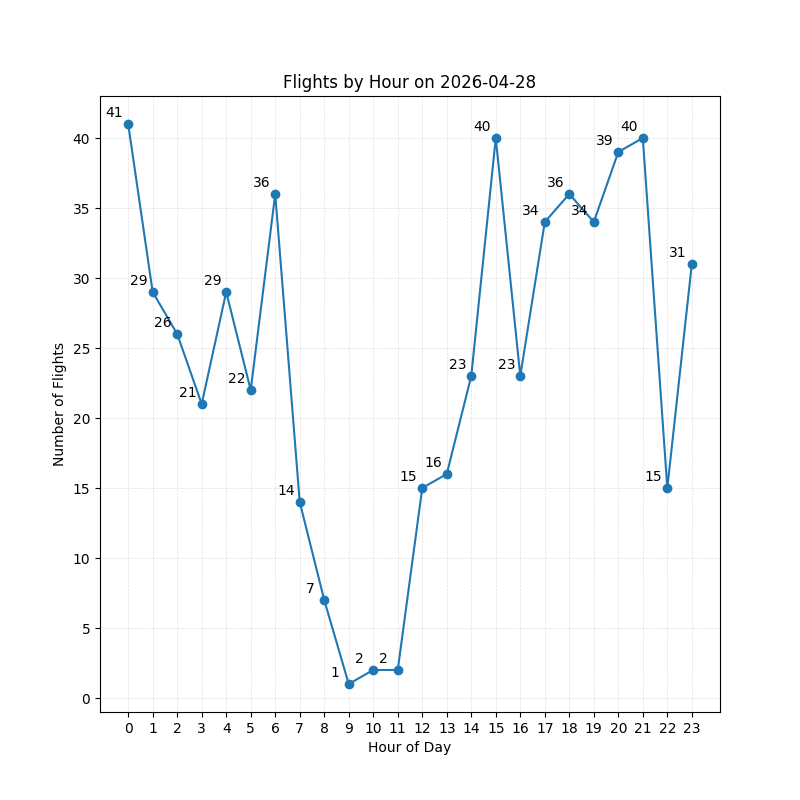
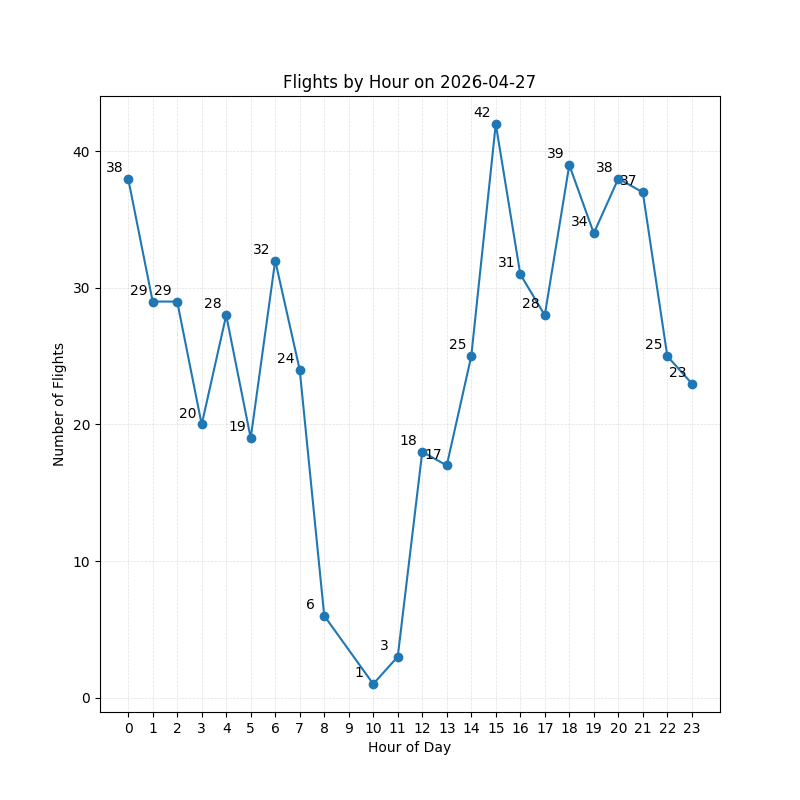
update homepage and readme

diff --git a/templates/home_page.html b/templates/home_page.html
@@ -23,10 +23,13 @@
                 </li>
             </ul>
         </nav>
+
+        <img src="static/sfo.png" alt="sfo img" class="sfo-img"/>
+
         <div class="home-container">
             <div class="home">
-                <h1>SFO Departure Analytics</h1>
-                <p>SFO Departure Analytics is a web-based project that analyzes flight departure data from the San Francisco International Airport. Users can explore daily departure trends from the past 7 days, view the number of flights departing on selected dates, and identify the busiest and least active travel periods throughout the past week. Built with Python, Flask, Pandas, and Matplotlib, this project transforms raw aviation data into clear and simple visualizations and insights.</p>
+                <h1>SFO Flight Analytics</h1>
+                <p>SFO Flight Analytics is a web-based project that analyzes flight departure data from the San Francisco International Airport. Users can explore daily departure trends from the past 7 days, view the number of flights departing on selected dates, and identify the busiest and least active travel periods throughout the past week. Built with Python, Flask, Pandas, and Matplotlib, this project transforms raw aviation data into clear and simple visualizations and insights.</p>
                 <form action="/collect" method="POST">
                     <button class="data-btn" type="submit">Generate Flight Data</button>
                 </form>
@@ -40,6 +43,10 @@
                 </div> 
             </div>
         </div>
+
+        <p class="doc">Data from Open Sky Network API: 
+            <a href="https://openskynetwork.github.io/opensky-api/python.html#">Documentation</a>
+        </p>
         
     </body>
 </html>

diff --git a/templates/day_hour_page.html b/templates/day_hour_page.html
@@ -24,7 +24,7 @@
             </ul>
         </nav>
         
-        <h1 class="analysis-header">Analyze Flights By Day & Hour (Past 6 Days)</h1>
+        <h1 class="analysis-header">Analyze Flights By Day & Hour (Past 7 Days)</h1>
 
         <div class="button-container">
             <form action="/day-analysis" method="POST">
@@ -40,13 +40,13 @@
             {% if min_day %}
                 <p>Best day of week to travel: <strong class="best-text">{{ min_day }}</strong> >> ({{ min_day_val }} total flights) </p>
                 <p class="analysis-graph-spacing">Worst day of week to travel: <strong class="worst-text">{{ max_day }}</strong> >> ({{ max_day_val }} total flights) </p>
-                <img src="{{ url_for('static', filename='day_plot.png') }}", alt="Flights by Day", width=70%, height=70%>
+                <img src="{{ url_for('static', filename='day_plot.png') }}", alt="Flights by Day", width=50%, height=50%>
             {% endif %}
  
             {% if min_hr %}
                 <p>Best hour of day to fly: <strong class="best-text">{{ min_hr }}:00</strong> >> ({{ min_hr_val }} total flights) </p>
                 <p class="analysis-graph-spacing">Worst hour of day to fly: <strong class="worst-text">{{ max_hr }}:00</strong> >> ({{ max_hr_val }} total flights) </p>
-                <img src="{{ url_for('static', filename='hour_plot.png') }}", alt="Flights by Hour", width=70%, height=70%>
+                <img src="{{ url_for('static', filename='hour_plot.png') }}", alt="Flights by Hour", width=50%, height=50%>
             {% endif %}
         </div>
 

diff --git a/static/styles.css b/static/styles.css
@@ -44,12 +44,18 @@ body {
     color: white;
 }
 
+.sfo-img{
+    width: 100%;
+    height: 200px;
+    display: block;
+}
+
 .home-container {
     display: flex;
     flex-direction: column;
     justify-content: center;
     align-items: center;
-    min-height: 100vh;
+    min-height: 50vh;
 }
 
 .home {
@@ -89,6 +95,15 @@ body {
     justify-content: center;
     align-items: center;
     gap: 30px;
+}
+
+.doc {
+    text-align: center;
+    margin-top: 6%;
+}
+
+.doc:hover {
+    color: black;
 }
 
 /* SELECTED DAY PAGE STYLES */
@@ -198,6 +213,7 @@ body {
     gap: 20%;
     align-items: center;
     text-align: center;
+    font-size: 25px;
 }
 
 .analysis-graph-spacing {

diff --git a/data.py b/data.py
@@ -25,14 +25,14 @@ class DataCollector:
         while t < self.cur_time: # keep looping until we reach "now"
             next_t = min(t + self.step, self.cur_time) # move forward step hrs but do not go past the current time
             data = self.api.get_departures_by_airport("KSFO", t, next_t)
-            # time.sleep(5) # go to sleep in between api calls to avoid the rate call per-minute limit
+            # time.sleep(2) # go to sleep in between api calls to avoid the rate call per-minute limit
 
             time_label = datetime.fromtimestamp(t, tz=timezone.utc).strftime("%m-%d-%Y %H:%M")
             if data: # check if data was actually returned
                 self.hourly_flights[time_label] = len(data)
             else: # otherwise number of flights = 0
                 self.hourly_flights[time_label] = 0
-                print("No data returned for", time_label)
+                # print("No data returned for", time_label)
                 # return
 
             t = next_t # move forward 

diff --git a/app.py b/app.py
@@ -50,7 +50,7 @@ def generate_data():
     collector.get_data()
     collector.create_csv()
 
-    return redirect(url_for("home"))
+    return render_template("home_page.html")
 
 if __name__ == "__main__":
     app.run()

diff --git a/README.md b/README.md
@@ -1,12 +1,12 @@
 # CS-122-Final-Project
 
-Project Title: Flight Analyzer
+Project Title: SFO Flight Analytics
 
 Authors: 
 |           Name          |       GitHub Handle      |            Project Task             |
 |-------------------------|--------------------------|-------------------------------------|
-| Wendy Ta                | @wendyxta                | Data Collection<br>Data Storage     |
-| Taanyaa Haridass Prasad | @taanyaaharidassprasad06 | Data Analysis<br>Data Visualization |
+| Wendy Ta                | @wendyxta                | Data Collection<br>Data Analysis    |
+| Taanyaa Haridass Prasad | @taanyaaharidassprasad06 | Data Visualization<br>Data Analysis |
 
 
 Project Description:
@@ -14,14 +14,14 @@ We used the OpenSky Network API (https://openskynetwork.github.io/opensky-api/py
 
 Project Outline/Plan:
 
-- Interface Plan: We built a website using **Flask** where users can click buttons to view different graphs and analyses to determine the most optimal time to fly. The website features three pages: a home page, a page for viewing day and time analysis, and a page where users can select a specific date to view hourly departure information for that day.
+- Interface Plan: We built a website using **Flask** where users can click buttons to view different graphs and analyses to determine the most optimal time and day to travel. The website features three pages: a home page, a page for viewing day and time analysis, and a page where users can select a specific date to view hourly departure information for that day.
 
 - Data Collection and Storage Plan:
   - Collection:
     - We used `get_departures_by_airport()` from the OpenSky API to collect flight departure data from the SFO Airport.
-    - The API provides flight departure records which we processed to count the total number of per hour for each of the 7 days.
+    - The API provides flight departure records which we processed to count the total number of flights per hour for each of the 7 days.
   - Storage Plan:
-    - We parsed the JSON data returned from the API and stored it in a CSV file for easier access and analysis.
+    - We parsed the data returned from the API and stored it in a CSV file for easier access and analysis.
     - The CSV file stores data such as the departure date, the hour of the departure, and the total number of flights departed from the SFO airport at that hour.
     - We then extracted the departure day and departure time from the CSV file and used it to generate graphs and perform flight trend analysis to display on our website.
 
